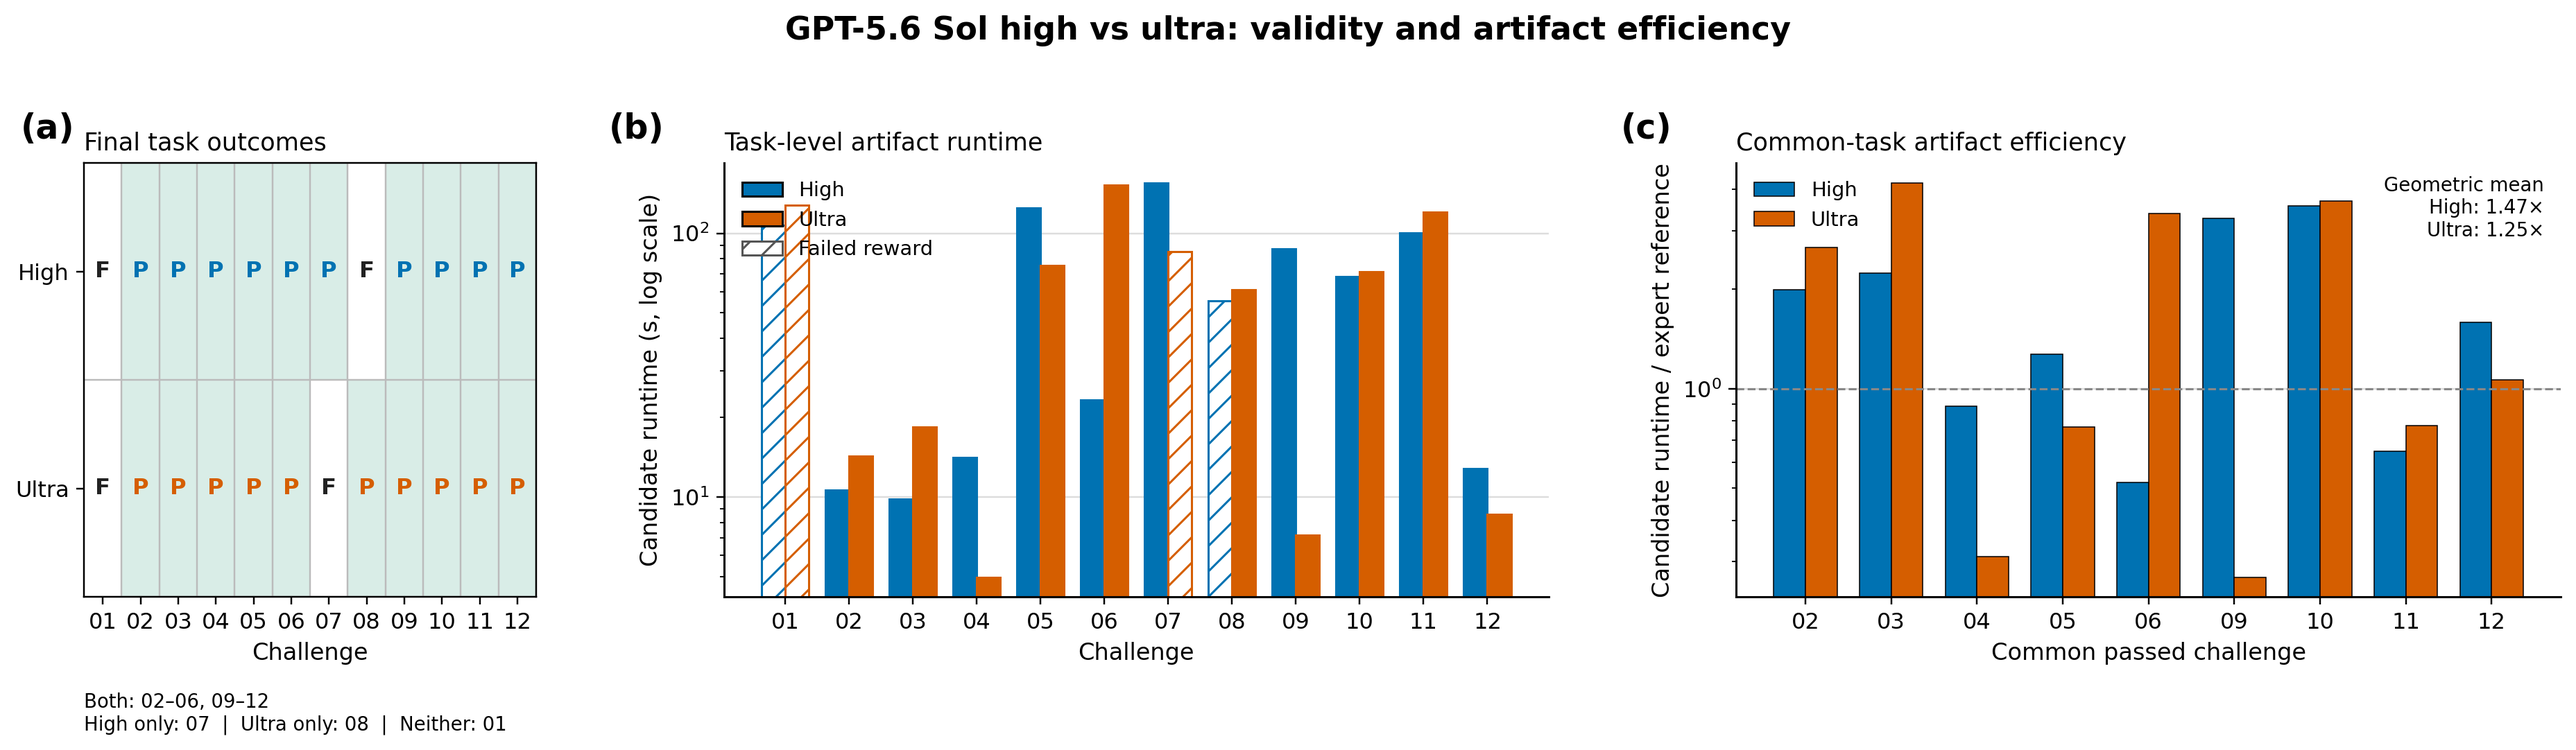
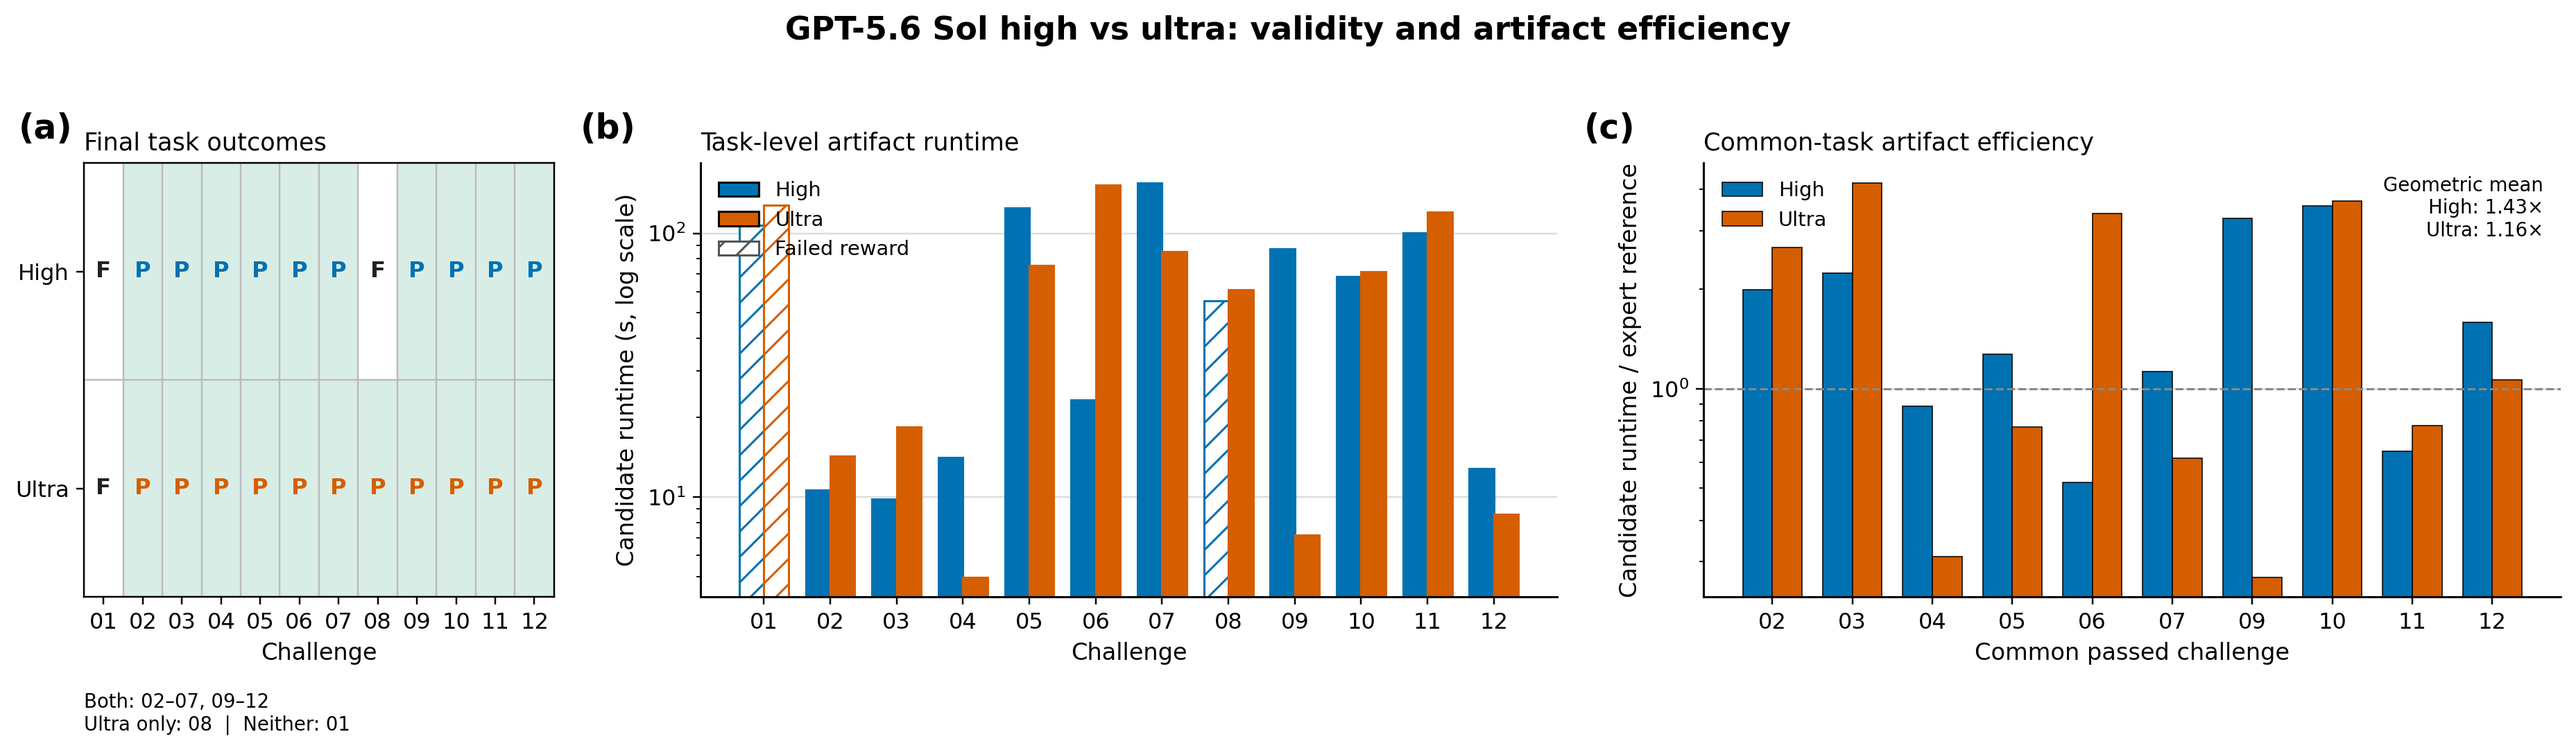
Correct ultra benchmark adjudication to 11 of 12

diff --git a/results/gpt56sol-ultra/tools/make_figures.py b/results/gpt56sol-ultra/tools/make_figures.py
@@ -164,7 +164,7 @@ def ultra_resource_figure() -> None:
         fontweight="bold",
     )
     axes[2].annotate(
-        "Ultra\n(10/12)",
+        "Ultra\n(11/12)",
         (
             ultra["solve_time_per_valid_solution_min"],
             ultra["cost_per_valid_solution_usd"],
@@ -176,7 +176,7 @@ def ultra_resource_figure() -> None:
     )
     axes[2].set_xlabel("Solve time per valid solution (min)")
     axes[2].set_ylabel("Cost per valid solution (USD)")
-    axes[2].set_xlim(16.5, 21.2)
+    axes[2].set_xlim(16.0, 21.2)
     axes[2].set_ylim(2.30, 3.20)
     axes[2].text(
         0.98,
@@ -247,7 +247,7 @@ def outcomes_figure() -> None:
     axes[0].text(
         0.0,
         -0.22,
-        "Both: 02–06, 09–12\nHigh only: 07  |  Ultra only: 08  |  Neither: 01",
+        "Both: 02–07, 09–12\nUltra only: 08  |  Neither: 01",
         transform=axes[0].transAxes,
         fontsize=9,
         va="top",

diff --git a/results/gpt56sol-ultra/README.md b/results/gpt56sol-ultra/README.md
@@ -6,12 +6,15 @@ previous GPT-5.6 Sol `high` run.
 
 ## Headline
 
-- Final verified rewards: **10 / 12**
+- Final adjudicated validity: **11 / 12**
+- Raw verifier rewards: **10 / 12**
 - Functional checks: **12 / 12**
 - Static policy checks: **12 / 12**
-- Final audit checks: **10 / 12**
+- Raw audit checks: **10 / 12**
 
-The two remaining semantic failures are challenges 01 and 07.
+Challenge 01 is the only final failure. Challenge 07's original audit failure
+is retained as a raw artifact but was overturned by a later exact
+source-level adjudication.
 
 ## Protocol
 
@@ -55,37 +58,44 @@ c404ed272d55d85b23820182781ae8f43299c3409bf5c254624f49a33884d66a
 
 ## Ultra results
 
-| Challenge | Reward | Functional | Static | Final audit | Runtime (s) |
-|---|---:|---:|---:|---:|---:|
-| 01 | 0.0 | 1.0 | 1.0 | 0.0 | 127.87 |
-| 02 | 1.0 | 1.0 | 1.0 | 1.0 | 14.32 |
-| 03 | 1.0 | 1.0 | 1.0 | 1.0 | 18.45 |
-| 04 | 1.0 | 1.0 | 1.0 | 1.0 | 4.96 |
-| 05 | 1.0 | 1.0 | 1.0 | 1.0 | 75.51 |
-| 06 | 1.0 | 1.0 | 1.0 | 1.0 | 152.16 |
-| 07 | 0.0 | 1.0 | 1.0 | 0.0 | 84.99 |
-| 08 | 1.0 | 1.0 | 1.0 | 1.0 | 60.94 |
-| 09 | 1.0 | 1.0 | 1.0 | 1.0 | 7.18 |
-| 10 | 1.0 | 1.0 | 1.0 | 1.0 | 71.27 |
-| 11 | 1.0 | 1.0 | 1.0 | 1.0 | 120.07 |
-| 12 | 1.0 | 1.0 | 1.0 | 1.0 | 8.61 |
-| **Total / mean** | **10 / 12** | **12 / 12** | **12 / 12** | **10 / 12** | **62.19 mean** |
+| Challenge | Raw reward | Functional | Static | Raw audit | Final validity | Runtime (s) |
+|---|---:|---:|---:|---:|---:|---:|
+| 01 | 0.0 | 1.0 | 1.0 | 0.0 | Fail | 127.87 |
+| 02 | 1.0 | 1.0 | 1.0 | 1.0 | Pass | 14.32 |
+| 03 | 1.0 | 1.0 | 1.0 | 1.0 | Pass | 18.45 |
+| 04 | 1.0 | 1.0 | 1.0 | 1.0 | Pass | 4.96 |
+| 05 | 1.0 | 1.0 | 1.0 | 1.0 | Pass | 75.51 |
+| 06 | 1.0 | 1.0 | 1.0 | 1.0 | Pass | 152.16 |
+| 07 | 0.0 | 1.0 | 1.0 | 0.0 | **Pass†** | 84.99 |
+| 08 | 1.0 | 1.0 | 1.0 | 1.0 | Pass | 60.94 |
+| 09 | 1.0 | 1.0 | 1.0 | 1.0 | Pass | 7.18 |
+| 10 | 1.0 | 1.0 | 1.0 | 1.0 | Pass | 71.27 |
+| 11 | 1.0 | 1.0 | 1.0 | 1.0 | Pass | 120.07 |
+| 12 | 1.0 | 1.0 | 1.0 | 1.0 | Pass | 8.61 |
+| **Total / mean** | **10 / 12** | **12 / 12** | **12 / 12** | **10 / 12** | **11 / 12** | **62.19 mean** |
+
+† Post-hoc source adjudication; the original reward and audit files remain
+unchanged.
 
 The 12 solution runtimes total 746.33 seconds.
 
-## Semantic failures
+## Audit findings and adjudication
 
 - Challenge 01: the candidate capped the MPS bond dimension after two-qubit
   gates. The audit judged this unrequested truncation to change the prescribed
   unitary ansatz and objective. The candidate had already been written when the
   solver reached its 1,800-second limit, so Harbor still verified it.
-- Challenge 07: the candidate sampled measurement branches once from the
-  initial ancilla parameters and froze those branch outcomes throughout
-  optimization. This disconnects `theta_anc` from the objective and does not
-  implement fixed-uniform sampling evaluated at the current parameters.
+- Challenge 07: the raw audit rejected the candidate because it analytically
+  sampled the branches once and reused them. The later exact reduction study
+  showed that this is a false negative for the published workload. Only the
+  ancilla `RY` angles affect the measurement distribution; their pathwise
+  gradient through fixed discrete samples is zero, so they do not update and
+  the realized branches remain unchanged. Reusing those branches therefore
+  preserves the benchmark trajectory. The proof and evidence are summarized
+  in [`challenge-07/adjudication.md`](challenge-07/adjudication.md).
 
-Both candidates passed visible functional and static checks, but these are
-substantive problem-fidelity failures and remain failed.
+Challenge 01 remains failed. Challenge 07 is adjudicated to pass without
+altering the original `reward.json` or `audit-details.json`.
 
 ## High versus ultra solver effort
 
@@ -95,8 +105,8 @@ In the pinned package, `exp1` defaults to `half=False`; only named rotations
 such as `rxx` and `rzz` opt into `half=True`. Source inspection and direct
 matrix checks therefore established that high challenge 05 is valid.
 
-The comparable final result is **10/12 for high and 10/12 for ultra**, but on
-different task sets:
+The comparable final result is **10/12 for high and 11/12 for ultra**. Ultra
+passes every challenge high passes and additionally passes challenge 08:
 
 | Challenge | High final | Ultra final | High runtime (s) | Ultra runtime (s) | Ultra − high (s) |
 |---|---:|---:|---:|---:|---:|
@@ -106,17 +116,19 @@ different task sets:
 | 04 | Pass | Pass | 14.14 | 4.96 | -9.18 |
 | 05 | Pass | Pass | 124.92 | 75.51 | -49.41 |
 | 06 | Pass | Pass | 23.39 | 152.16 | +128.77 |
-| 07 | Pass | Fail | 155.52 | 84.99 | -70.53 |
+| 07 | Pass | Pass† | 155.52 | 84.99 | -70.53 |
 | 08 | Fail | Pass | 55.48 | 60.94 | +5.46 |
 | 09 | Pass | Pass | 87.31 | 7.18 | -80.13 |
 | 10 | Pass | Pass | 68.68 | 71.27 | +2.59 |
 | 11 | Pass | Pass | 100.41 | 120.07 | +19.66 |
 | 12 | Pass | Pass | 12.85 | 8.61 | -4.24 |
 
+† Post-hoc source adjudication.
+
 The overlap is:
 
-- both passed: challenges 02, 03, 04, 05, 06, 09, 10, 11, and 12;
-- high only: challenge 07;
+- both passed: challenges 02, 03, 04, 05, 06, 07, 09, 10, 11, and 12;
+- high only: none;
 - ultra only: challenge 08;
 - neither: challenge 01.
 
@@ -127,14 +139,12 @@ evolution and cap the bond dimension at `dmrg_chi` after two-qubit gates. This
 unrequested truncation changes the specified unitary ansatz. Ultra did not
 avoid the semantic shortcut taken by high.
 
-Challenge 07 is high-only. High keeps the measurement operation inside the
-current parameter-dependent trajectory objective while reusing fixed uniforms.
-The ancilla parameters therefore remain connected to the objective and
-optimization. Ultra instead samples the measurement branches once from the
-initial parameters, freezes `measured` and `pre_bits`, and optimizes a
-fixed-branch surrogate. This disconnects `theta_anc` from the objective. Here
-the more elaborate analytical reduction crossed the problem's semantic
-boundary.
+Challenge 07 is passed by both efforts. High keeps measurement inside the
+trajectory objective. Ultra recognizes an exact property of the published
+circuit: the fixed-discrete-sample pathwise gradient of the ancilla sampling
+angles is zero, so those angles and the realized branches do not change during
+optimization. Its analytic branch reuse is therefore an exact workload
+reduction, not a fixed-branch surrogate with different dynamics.
 
 Challenge 08 is ultra-only. High drives conditional `perfect_sampling` with a
 fixed scrambled Sobol low-discrepancy design. That produces correlated
@@ -148,9 +158,8 @@ Challenge 05 is not a solver difference. Both candidates use direct
 `exp1(theta=1j*...)`, which is the correct full-angle convention in the pinned
 TensorCircuit package.
 
-Overall, ultra explores more elaborate implementations, but the extra reasoning
-is not monotonically beneficial: it helps on challenge 08 and hurts on
-challenge 07. The final validity count remains unchanged.
+Overall, ultra preserves all ten high passes and adds challenge 08, raising the
+final validity count from 10/12 to 11/12.
 
 ## Figures
 
@@ -162,9 +171,9 @@ time-versus-cost per valid solution.
 
 ![GPT-5.6 Sol high versus ultra outcomes](figs/gpt56sol-high-vs-ultra-outcomes.png)
 
-The outcome figure makes the task-set swap explicit and compares both raw
-artifact runtime and same-reference runtime ratios on the nine tasks passed by
-both efforts.
+The outcome figure shows that ultra contains all high passes and adds challenge
+08. It compares both raw artifact runtime and same-reference runtime ratios on
+the ten tasks passed by both efforts.
 
 ![GPT-5.6 Sol high versus ultra resources](figs/gpt56sol-high-vs-ultra-resources.png)
 
@@ -175,28 +184,26 @@ tokens, and recorded solver cost.
 
 | Metric | High | Ultra | Ultra − high |
 |---|---:|---:|---:|
-| Final valid solutions | 10 | 10 | 0 |
+| Final valid solutions | 10 | 11 | +1 |
 | Agent solve wall time | 197.70 min | 182.80 min | -7.5% |
 | Non-cache input tokens | 1.709 M | 1.312 M | -23.2% |
 | Cache-read input tokens | 24.199 M | 31.478 M | +30.1% |
 | Output tokens | 0.163 M | 0.257 M | +58.1% |
 | Total solving-side tokens | 26.071 M | 33.048 M | +26.8% |
 | Recorded cost | USD 25.53 | USD 30.02 | +17.6% |
-| Cost per valid solution | USD 2.55 | USD 3.00 | +17.6% |
-| Solve time per valid solution | 19.77 min | 18.28 min | -7.5% |
+| Cost per valid solution | USD 2.55 | USD 2.73 | +6.9% |
+| Solve time per valid solution | 19.77 min | 16.62 min | -15.9% |
 | All-artifact runtime total | 770.70 s | 746.33 s | -3.2% |
 
 Ultra consumed substantially more total and output tokens and cost more, while
-its recorded agent wall time was shorter. It did not improve the final validity
-count in this single sample.
+its recorded agent wall time was shorter and it produced one additional valid
+solution.
 
-For the nine tasks passed by both runs (02, 03, 04, 05, 06, 09, 10, 11, and
-12), the geometric mean of `ultra_runtime / high_runtime` is 0.852, so ultra's
-artifacts were 14.8% faster by that aggregate. Against the shared expert
-references, the geometric-mean ratios are 1.47× for high and 1.25× for ultra.
-Their arithmetic runtime totals move the other way: 472.53 seconds for ultra
-versus 452.19 seconds for high, mainly because ultra challenge 06 was much
-slower. These runtime results compare the generated programs, not the reasoning
+For the ten tasks passed by both runs (02–07 and 09–12), the geometric mean of
+`ultra_runtime / high_runtime` is 0.815. Against the shared expert references,
+the geometric-mean ratios are 1.428× for high and 1.165× for ultra. Their
+arithmetic runtime totals are 557.52 seconds for ultra and 607.71 seconds for
+high. These runtime results compare the generated programs, not the reasoning
 service itself.
 
 This is only one trial per task. It supports a cost/behavior observation, not a

diff --git a/results/gpt56sol-ultra/challenge-07/adjudication.md b/results/gpt56sol-ultra/challenge-07/adjudication.md
@@ -1,0 +1,48 @@
+# Challenge 07 source-level adjudication
+
+## Decision
+
+The final adjudicated result is **PASS**. The original `reward.json` and
+`audit-details.json` remain unchanged and continue to record the verifier's
+raw failure.
+
+## Why the raw audit was a false negative
+
+The audit treated the ultra solution's one-time analytic branch sampling as a
+different optimization objective. For this published circuit, it is an exact
+reduction of the fixed-trajectory objective:
+
+1. Every ancilla starts each layer in a computational-basis state and receives
+   an `RY` rotation.
+2. The following data–ancilla `RZZ` is diagonal in that basis. It changes the
+   conditioned data state but not the ancilla branch probabilities.
+3. The ancilla CNOT ladder is a reversible prefix XOR, so the measured bits can
+   be sampled analytically from the same fixed uniforms.
+4. With fixed discrete samples, the pathwise derivative of a realized branch
+   with respect to its sampling angle is zero. Those ancilla angles therefore
+   do not update, and the realized branches remain unchanged throughout the
+   optimizer trajectory.
+
+The ultra solution samples those invariant branches once, replaces the
+conditioned diagonal interactions by exact data-register rotations, and keeps
+the required TensorCircuit evolution and 100 Adam updates. It does not replace
+the trajectory with one generated by different parameters.
+
+## Independent evidence
+
+The later Task 07 reduction campaign compared the analytic sampler against the
+full 16-qubit TensorCircuit `cond_measure` program:
+
+- all 1,024 measured bits matched;
+- maximum non-ancilla gradient error was `1.5116e-6`;
+- the full graph's maximum ancilla-gradient magnitude was `4.6559e-7`, while
+  the exact reduced value was zero;
+- the complete evaluator passed.
+
+That study also exposed the same broader challenge-design reduction: the fixed
+public workload contains only two unique eight-qubit branch circuits. See
+[sxzgroup/ORBIT-Q#7](https://github.com/sxzgroup/ORBIT-Q/pull/7).
+
+The derived comparison files therefore count Challenge 07 as valid while
+retaining `raw_reward: 0`, `llm_audit_score: 0`, and
+`result_status: "post_hoc_source_adjudicated"` for provenance.
